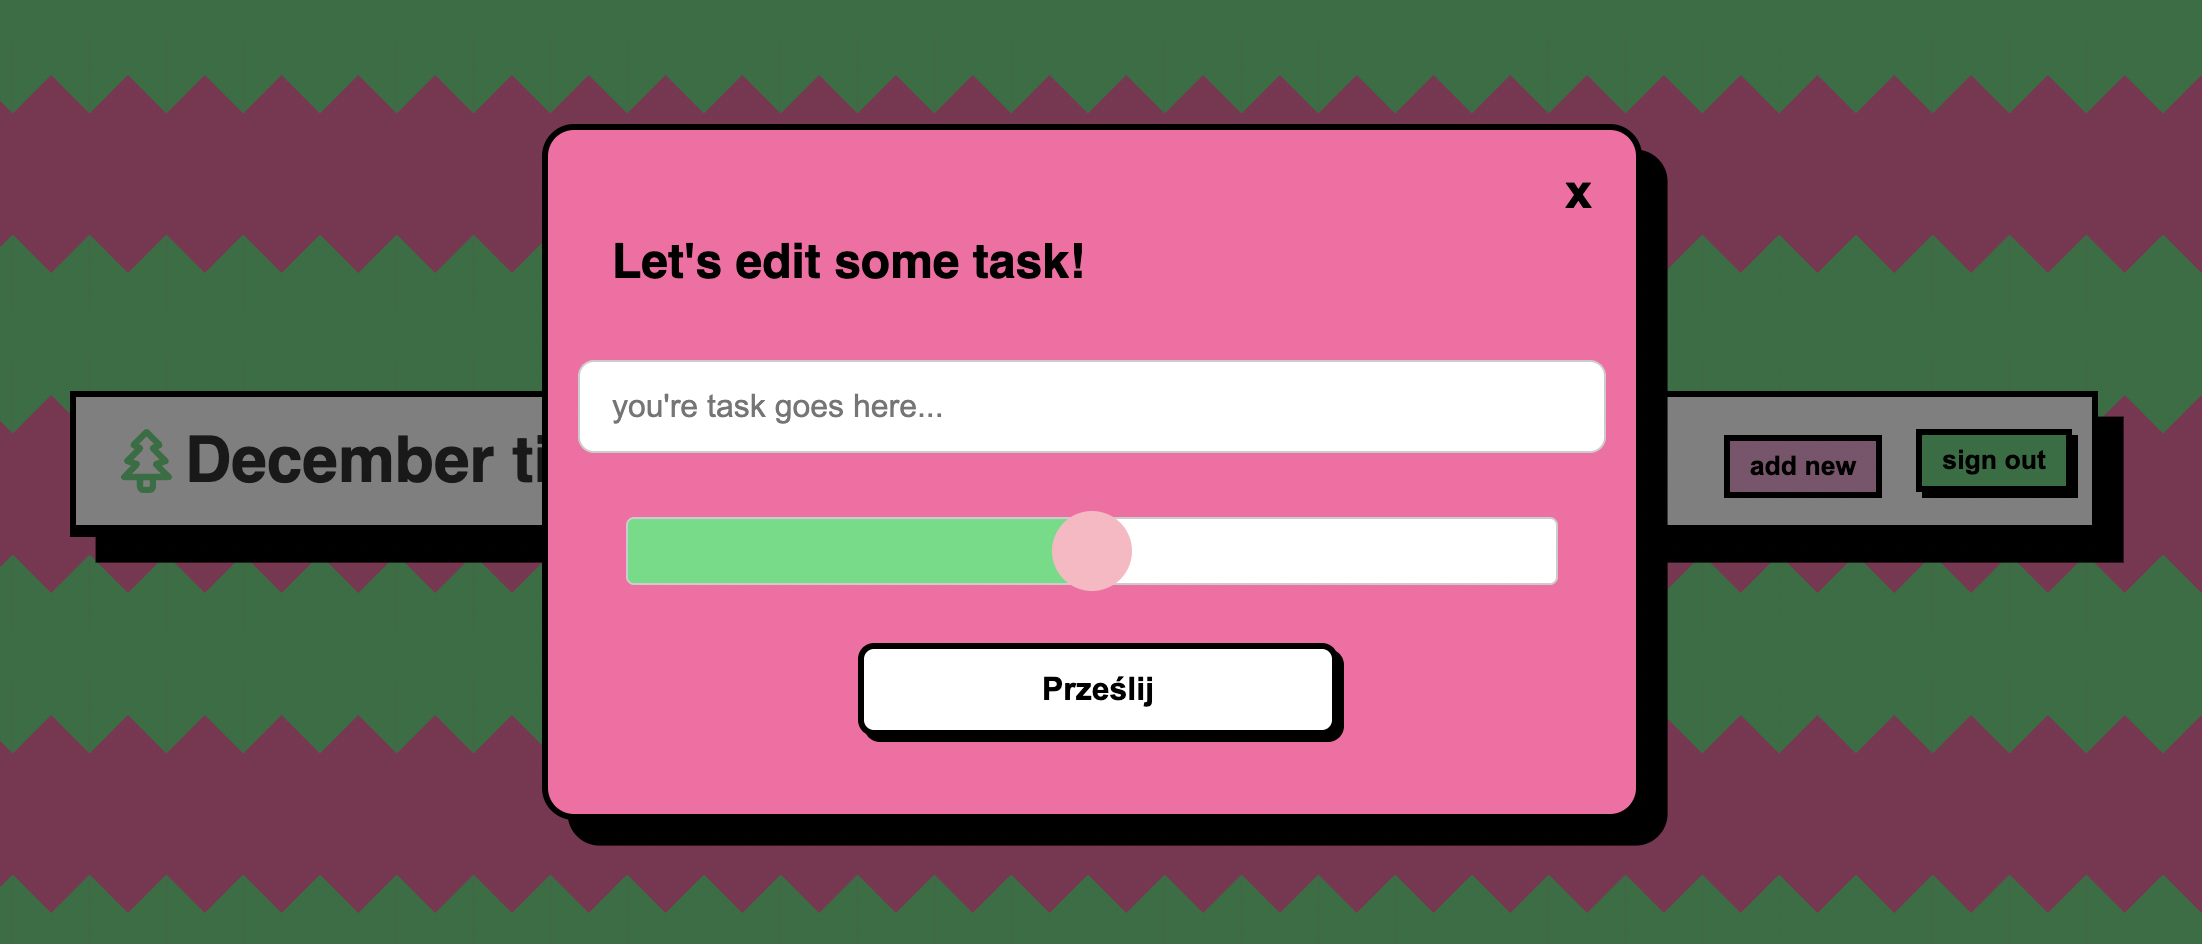
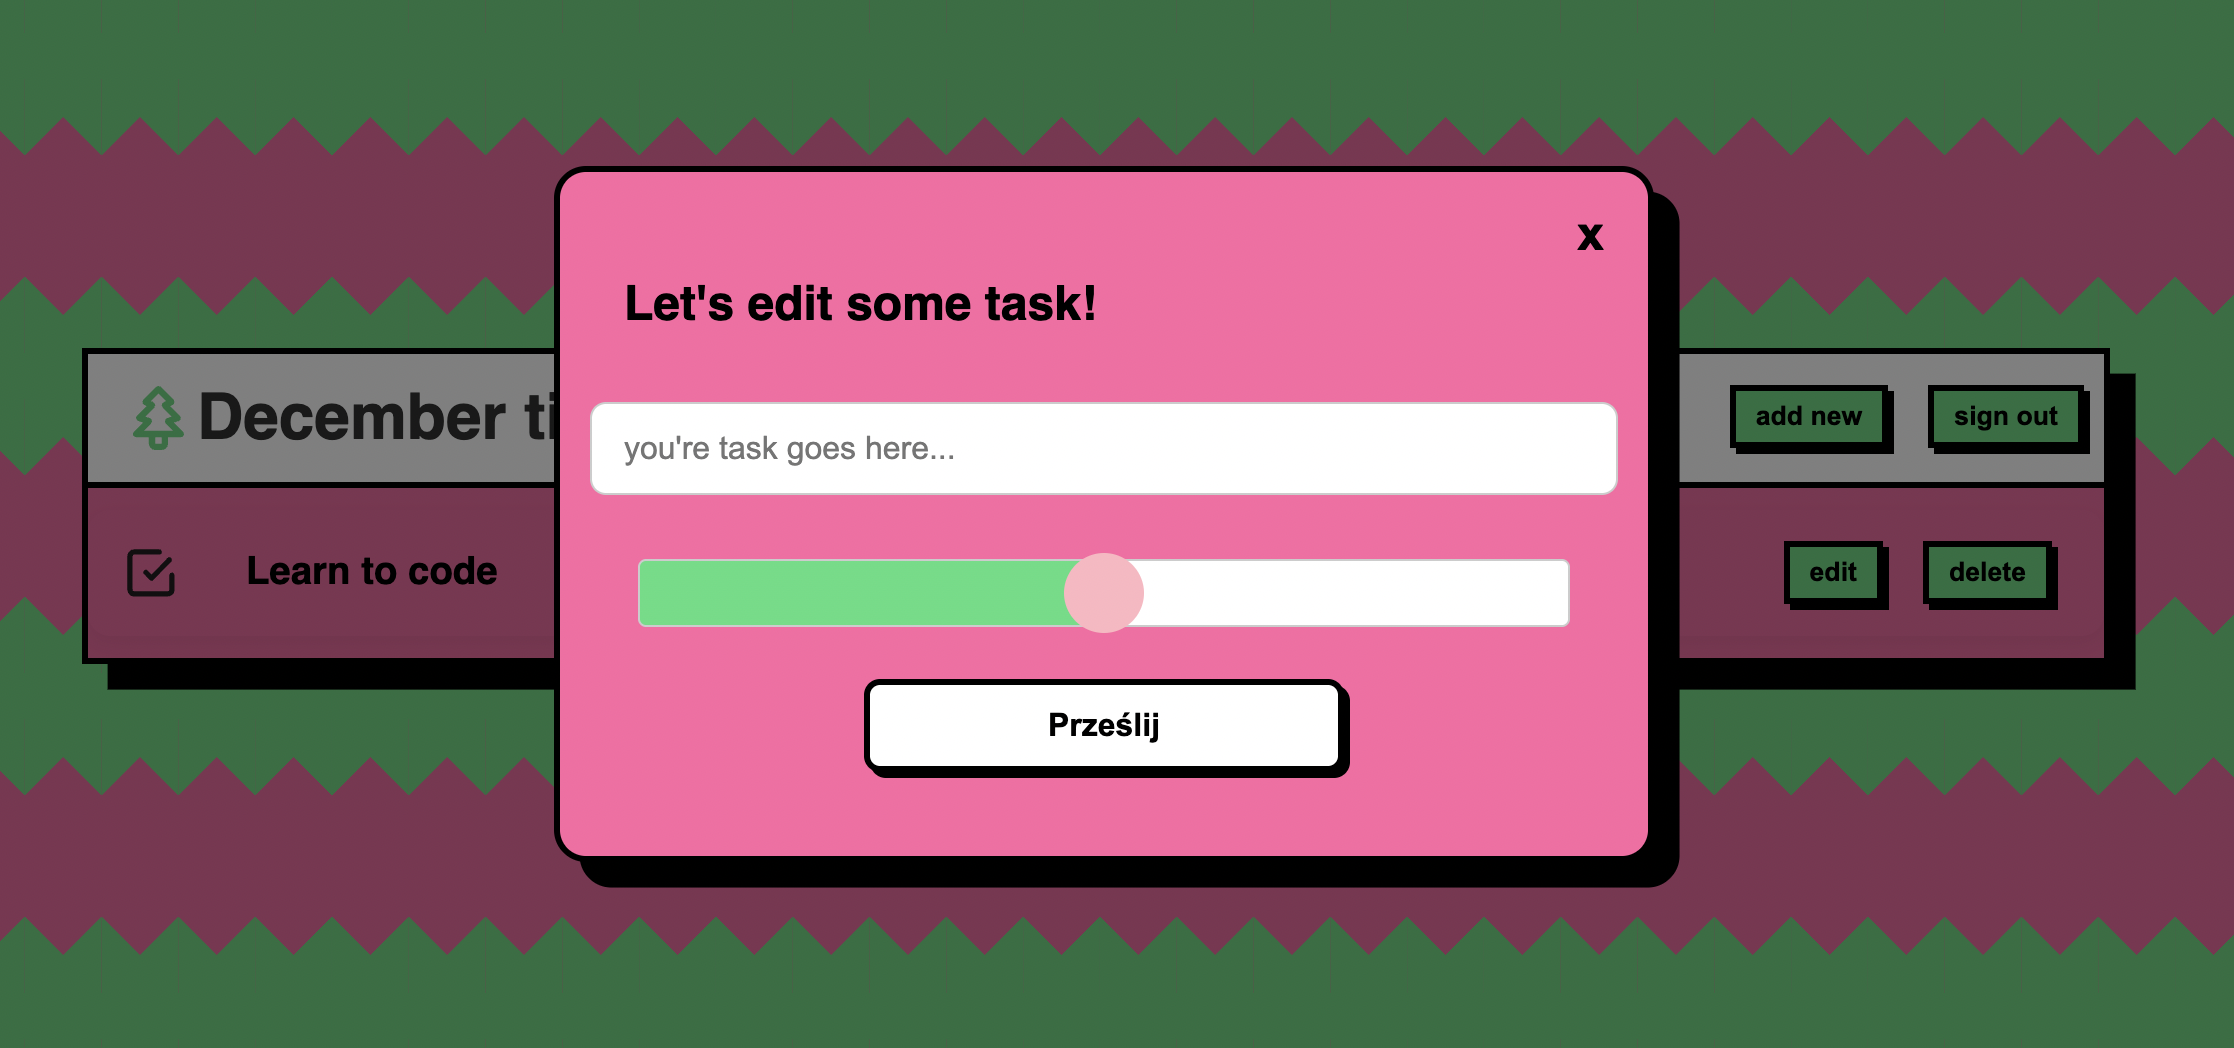
Add new screenshot

diff --git a/client/src/index.css b/client/src/index.css
@@ -66,9 +66,9 @@ body {
   cursor: pointer;
 }
 
-.edit,
-.delete,
-.create,
+.edit:hover,
+.delete:hover,
+.create:hover,
 .signout:hover {
   translate: 1.5px 1.5px;
   box-shadow: 1.5px 1.5px 0 #000000;
@@ -76,9 +76,9 @@ body {
   background: rgb(250, 167, 216);
 }
 
-.edit,
-.delete,
-.create,
+.edit:active,
+.delete:active,
+.create:active,
 .signout:active {
   translate: 3px 3px;
   box-shadow: 0 0 0 #000000;
@@ -145,6 +145,7 @@ body {
   display: flex;
   justify-content: center;
   align-items: center;
+  z-index: 9999
 }
 
 .modal {
@@ -171,9 +172,7 @@ body {
 .modal .form-title-container button {
   position: absolute;
   top: 1rem;
-  /* Odległość od górnej krawędzi modala */
   right: 1rem;
-  /* Odległość od prawej krawędzi modala */
   background: transparent;
   border: none;
   font-size: 1.5rem;

diff --git a/client/src/App.js b/client/src/App.js
@@ -18,7 +18,7 @@ const App = () => {
 
   useEffect(() => { getData() }, [])
   console.log("Wyświetlam json: ", tasks)
-  //sort yasks by date
+  //sort tasks by date
   const sortedTasks = tasks?.sort((a, b) => new Date(a.date) - new Date(b.date))
 
   return (

diff --git a/client/src/components/Modal.js b/client/src/components/Modal.js
@@ -2,7 +2,7 @@ const Modal = () => {
   const handleChange = () => {
     console.log("handlimg changes!")
   }
-  const mode = "edit"
+  const mode = "create"
   return (
     <div className="overlay">
       <div className="modal">

diff --git a/README.md b/README.md
@@ -20,7 +20,7 @@ Nothing special, just a simple table with rows and interactive buttons. The date
 The popup modal, when You can put Your task, looks like this:
 
 
-!![first page](./img/screen_2.png)
+![first page](./img/screen_2.png)
 
 ## 🍬 Technologies
 
@@ -32,6 +32,8 @@ The popup modal, when You can put Your task, looks like this:
 This little project is part of an amazing Full Stack Developer Course created by  ♥ Ania Kubow ♥. Love this women, her sense of humor and ability to explain hard, code-things in a way that I finally understand. 🏆
 
 ###
+
+
 
 This project was bootstrapped with [Create React App](https://github.com/facebook/create-react-app).
 
